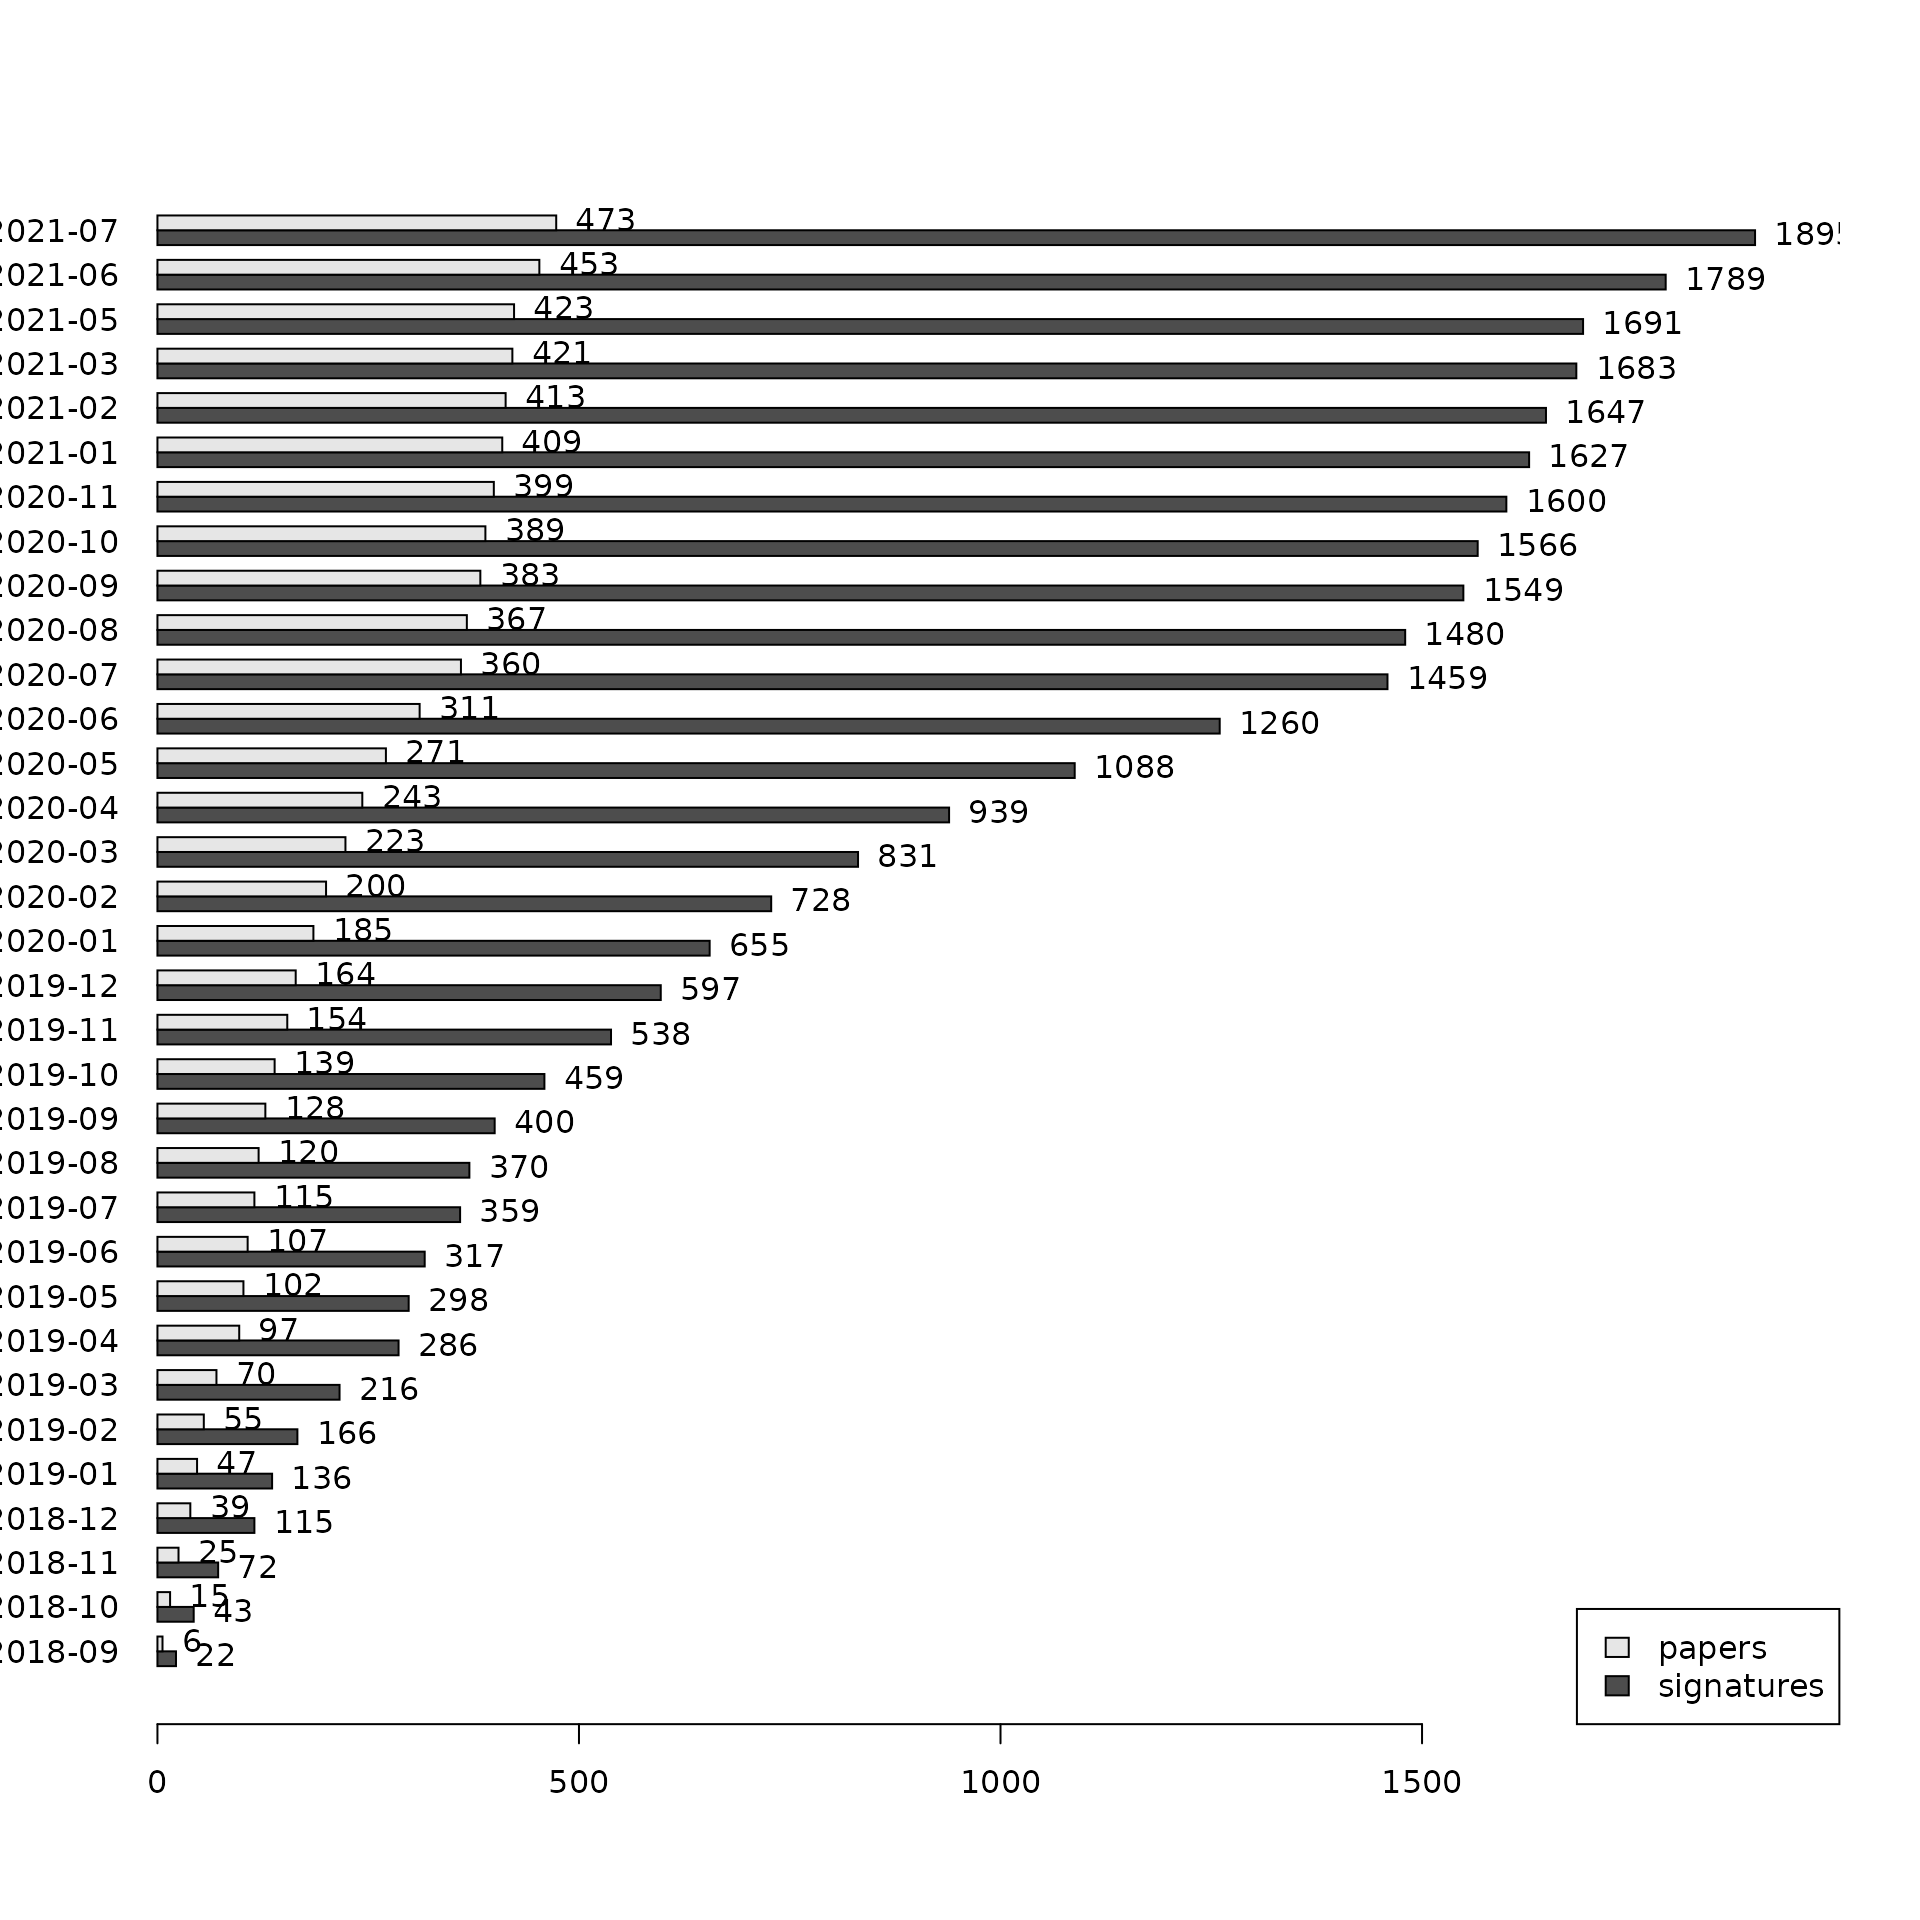
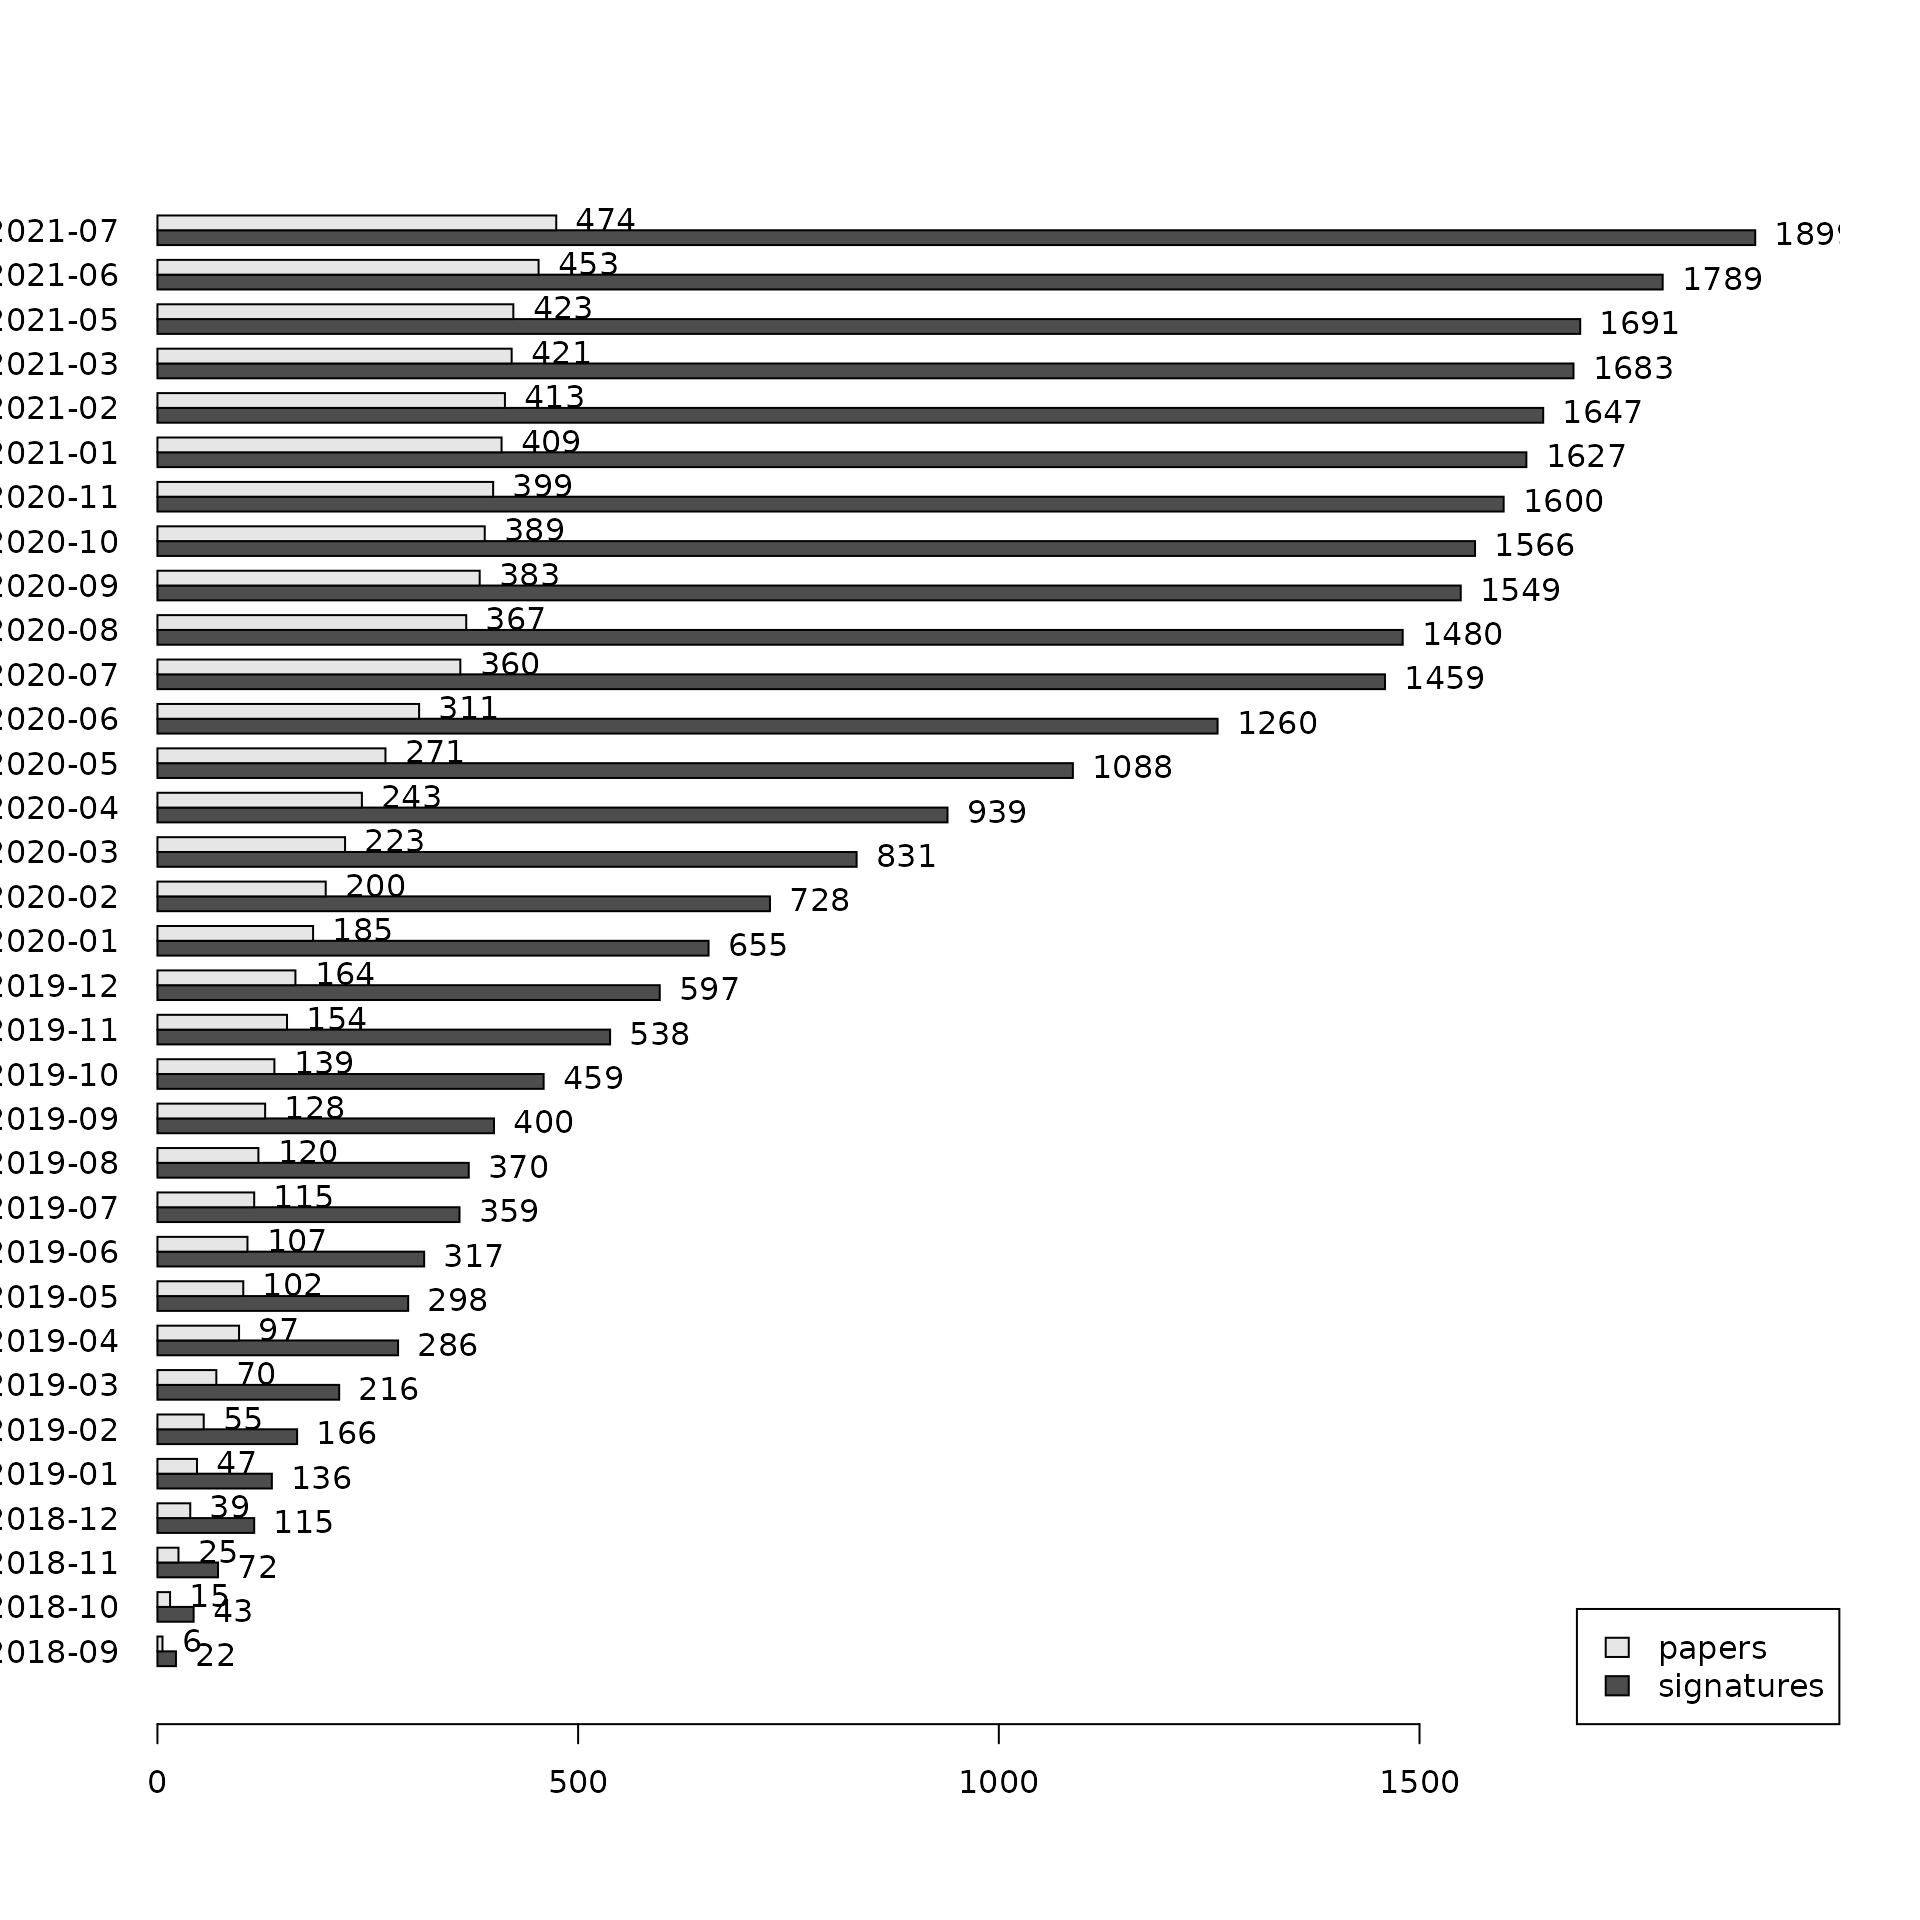
Deploying to gh-pages from  @ 9c0e06229ef63542f44c7cb56ad935cc12b6708c 🚀

diff --git a/articles/BugSigDBStats.html b/articles/BugSigDBStats.html
@@ -85,7 +85,7 @@
 <p>Get bulk export from bugsigdb.org:</p>
 <div class="sourceCode" id="cb2"><pre class="downlit">
 <span class="va">full.dat</span> <span class="op">&lt;-</span> <span class="fu">bugsigdbr</span><span class="fu">::</span><span class="fu"><a href="https://rdrr.io/pkg/bugsigdbr/man/importBugSigDB.html">importBugSigDB</a></span><span class="op">(</span><span class="op">)</span></pre></div>
-<pre><code>## using temporary cache /tmp/Rtmpt0tAuF/BiocFileCache</code></pre>
+<pre><code>## using temporary cache /tmp/Rtmps3ZEQd/BiocFileCache</code></pre>
 <pre><code>## 
 ## ── Column specification ────────────────────────────────────────────────────────
 ## cols(
@@ -129,7 +129,7 @@
 ## )</code></pre>
 <div class="sourceCode" id="cb7"><pre class="downlit">
 <span class="fu"><a href="https://rdrr.io/r/base/dim.html">dim</a></span><span class="op">(</span><span class="va">full.dat</span><span class="op">)</span></pre></div>
-<pre><code>## [1] 1960   45</code></pre>
+<pre><code>## [1] 1964   45</code></pre>
 <div class="sourceCode" id="cb9"><pre class="downlit">
 <span class="fu"><a href="https://rdrr.io/r/base/colnames.html">colnames</a></span><span class="op">(</span><span class="va">full.dat</span><span class="op">)</span></pre></div>
 <pre><code>##  [1] "Study"                      "Study design"              
@@ -166,7 +166,7 @@
 <pre><code>## [1] 487</code></pre>
 <div class="sourceCode" id="cb13"><pre class="downlit">
 <span class="fu"><a href="https://rdrr.io/r/base/nrow.html">nrow</a></span><span class="op">(</span><span class="va">full.dat</span><span class="op">)</span></pre></div>
-<pre><code>## [1] 1960</code></pre>
+<pre><code>## [1] 1964</code></pre>
 <p>Publication date of the curated papers:</p>
 <div class="sourceCode" id="cb15"><pre class="downlit">
 <span class="va">pmids</span> <span class="op">&lt;-</span> <span class="va">pmids</span><span class="op">[</span><span class="op">!</span><span class="fu"><a href="https://rdrr.io/r/base/NA.html">is.na</a></span><span class="op">(</span><span class="va">pmids</span><span class="op">)</span><span class="op">]</span>
@@ -196,12 +196,12 @@
 <span class="co"># more realistic estimation of number of signatures curated</span>
 <span class="va">dat</span> <span class="op">&lt;-</span> <span class="fu"><a href="../reference/stripEmptySignatures.html">stripEmptySignatures</a></span><span class="op">(</span><span class="va">full.dat</span><span class="op">)</span>
 <span class="fu"><a href="https://rdrr.io/r/base/nrow.html">nrow</a></span><span class="op">(</span><span class="va">dat</span><span class="op">)</span></pre></div>
-<pre><code>## [1] 1895</code></pre>
+<pre><code>## [1] 1899</code></pre>
 <p>Papers containing only empty UP and DOWN signatures (under curation?):</p>
 <div class="sourceCode" id="cb20"><pre class="downlit">
 <span class="fu"><a href="https://rdrr.io/r/base/sets.html">setdiff</a></span><span class="op">(</span><span class="va">pmids</span>, <span class="fu"><a href="https://rdrr.io/r/base/unique.html">unique</a></span><span class="op">(</span><span class="va">dat</span><span class="op">[</span>,<span class="st">"PMID"</span><span class="op">]</span><span class="op">)</span><span class="op">)</span></pre></div>
 <pre><code>##  [1] 32295867 32937864 32415070 32728349 33903709 33851179 33833065 31910227
-##  [9] 33603076 31917273 22986438 22713265 23565884 32839514</code></pre>
+##  [9] 33603076 31917273 22986438 23565884 32839514</code></pre>
 <p>Progress over time:</p>
 <div class="sourceCode" id="cb22"><pre class="downlit">
 <span class="va">dat</span><span class="op">[</span>,<span class="st">"Curated date"</span><span class="op">]</span> <span class="op">&lt;-</span> <span class="fu"><a href="https://rdrr.io/r/base/character.html">as.character</a></span><span class="op">(</span><span class="fu">lubridate</span><span class="fu">::</span><span class="fu"><a href="http://lubridate.tidyverse.org/reference/ymd.html">dmy</a></span><span class="op">(</span><span class="va">dat</span><span class="op">[</span>,<span class="st">"Curated date"</span><span class="op">]</span><span class="op">)</span><span class="op">)</span>
